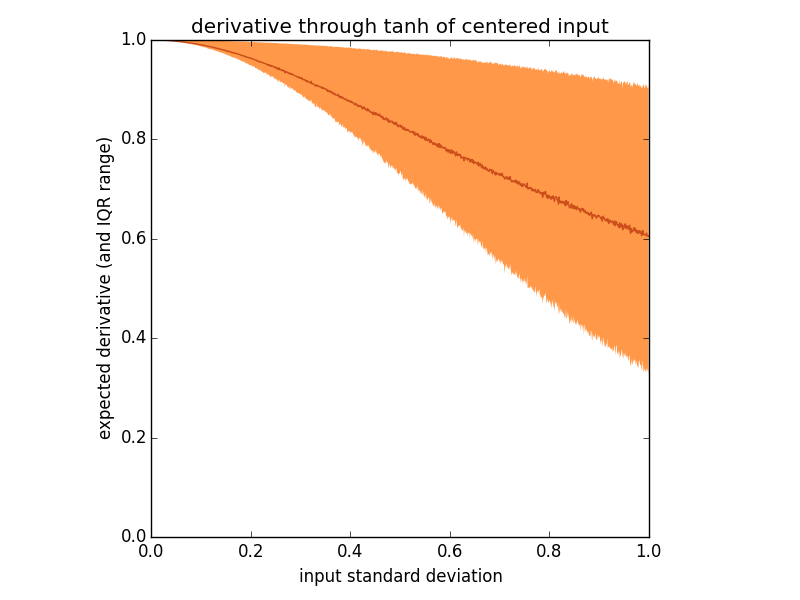
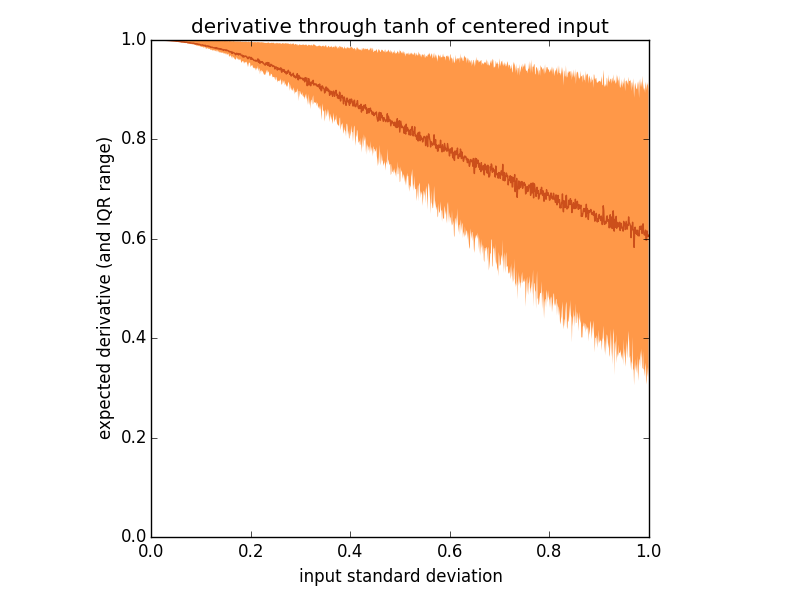
tweak tanh derivative plot

diff --git a/paper/figures/plot_tanh_grad.py b/paper/figures/plot_tanh_grad.py
@@ -5,7 +5,7 @@ def dtanh(x): return 1 - tanh(x)**2
 def sigmoid(x): return 1. / (1. + np.exp(-x))
 def dsigmoid(x): return sigmoid(x) * (1 - sigmoid(x))
 
-sample_size = 10000
+sample_size = 1000
 sigmas = np.linspace(0, 1, 1000)
 x = np.random.randn(sample_size, len(sigmas)) * sigmas
 
